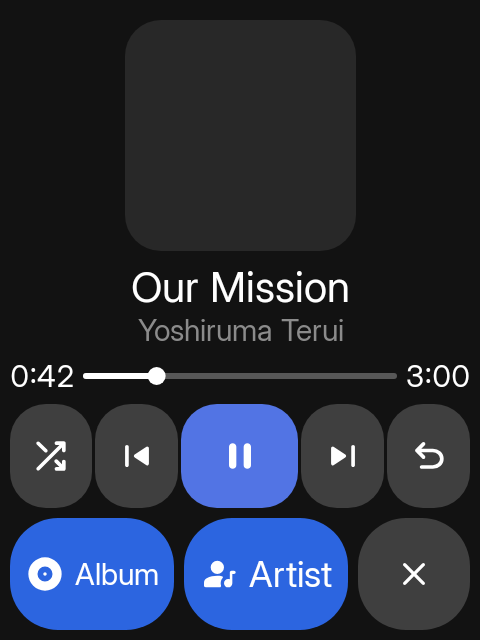
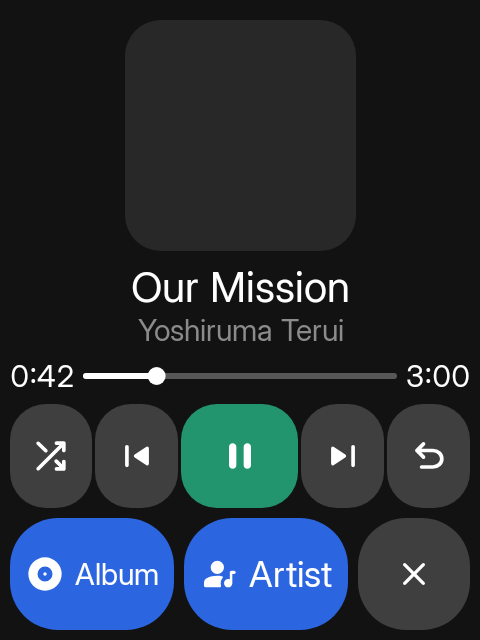
Give play the calculator's operator green
The play tile now takes successA1 — the colour the calculator gives AC, %
and its operators — so the transport carries the app's "this is the thing
you press" hue rather than another shade of the action bar's blue.

That green was already spoken for: it was the "on/saved" fill for shuffle,
repeat and the album's bookmark. Those states become brighter grey
(surfaceA5) instead of a second hue, so the row still has exactly one accent
and the modes still read as engaged by contrast rather than colour. The
action bar's Save toggle keeps ActionTone.Secondary, the system's commit
green, since bar tones are their own ladder.

Changed region(s): [[0.375, 0.625, 0.625, 0.8125]]

diff --git a/app/src/main/java/hrln/interactive/sidekit/apps/music/MusicScreens.kt b/app/src/main/java/hrln/interactive/sidekit/apps/music/MusicScreens.kt
@@ -441,11 +441,14 @@ private const val SKIP_WEIGHT = 0.85f
 private const val PLAY_WEIGHT = 1.2f
 
 /**
- * Fill of a tile. [Play] is the screen's main way forward, but it takes the *body's* top tone
- * (`ItemColour.Secondary`, as the calculator's `=` does) rather than the action bar's primaryA1:
- * a tile painted with the bar's tone reads as a seventh action button, which is what this screen
- * used to be. [On] is a mode switched on or a track saved — the commit green the bar uses for
- * Save, so colour alone says "this is already applied".
+ * Fill of a tile, and the ladder is deliberate:
+ *
+ * - [Play] takes the calculator's operator green (`successA1`, the colour of its AC and ÷). Never
+ *   the action bar's primaryA1: a tile painted with the bar's tone reads as a seventh action
+ *   button, which is what this screen used to be.
+ * - [On] is a mode switched on or a track saved. It is the same green one step brighter instead of
+ *   a second hue, so the row still has exactly one accent: play.
+ * - [Neutral] is everything the user hasn't switched on.
  */
 private enum class TileTone { Neutral, Play, On }
 
@@ -458,8 +461,8 @@ private fun RowScope.IconTile(icon: SidekitIcon, label: String, onClick: () -> U
         Modifier.weight(weight),
         color = when (tone) {
             TileTone.Neutral -> colors.surfaceA3
-            TileTone.Play -> colors.primaryA2
-            TileTone.On -> colors.successA1
+            TileTone.Play -> colors.successA1
+            TileTone.On -> colors.surfaceA5
         },
         iconSize = SidekitTheme.spacing.tileIconSize,
         onClick = onClick
